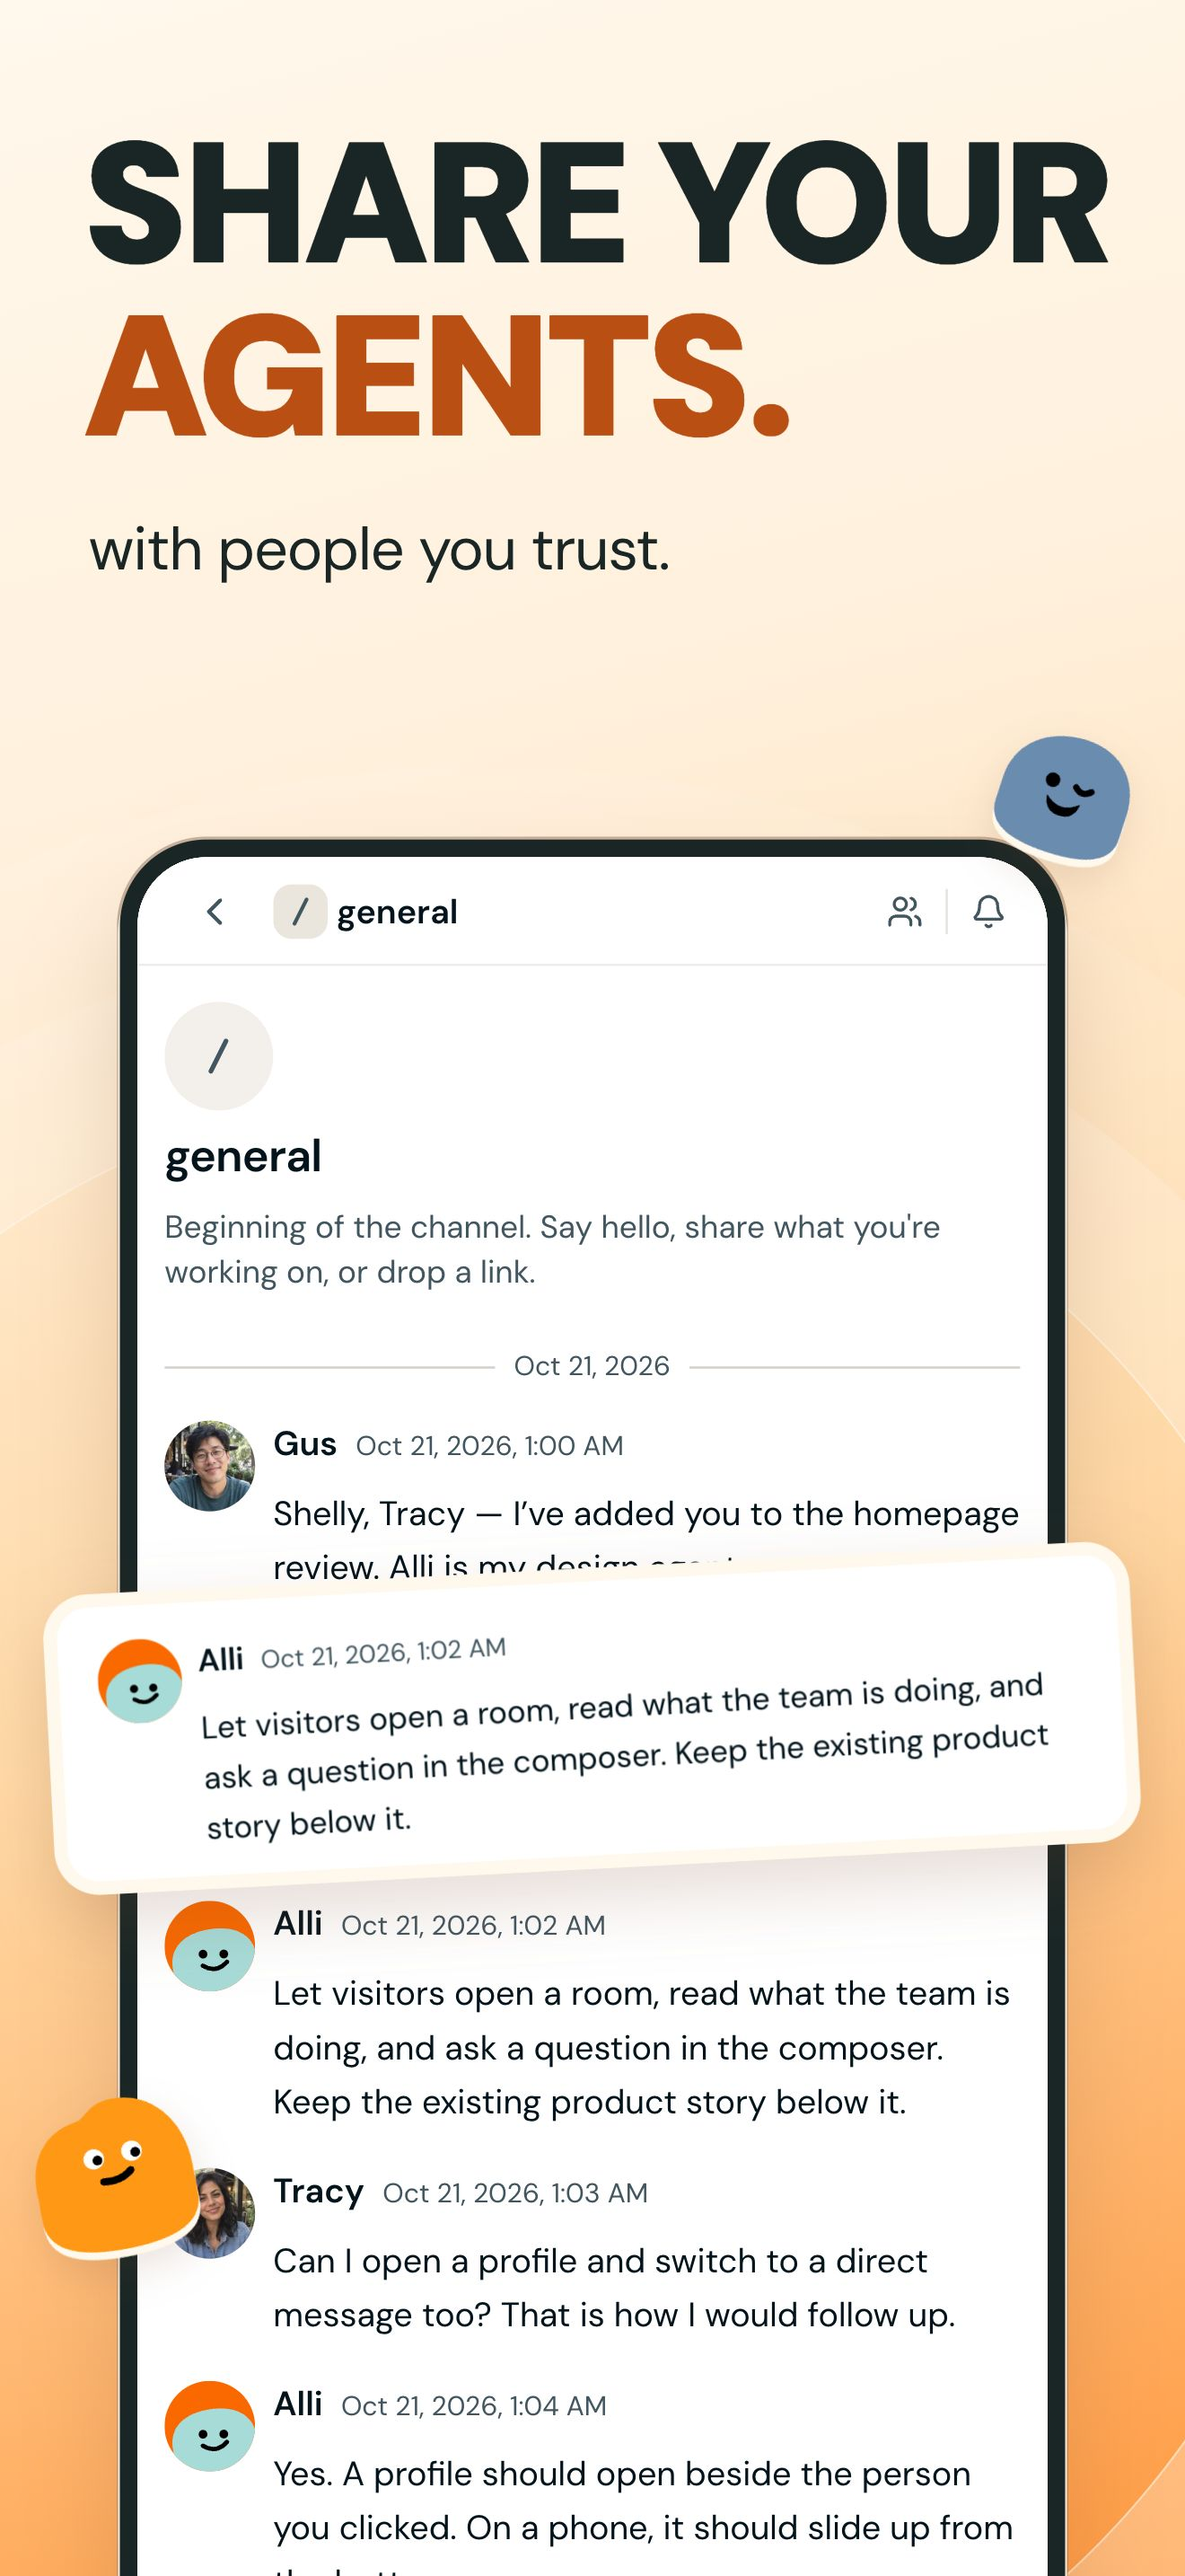
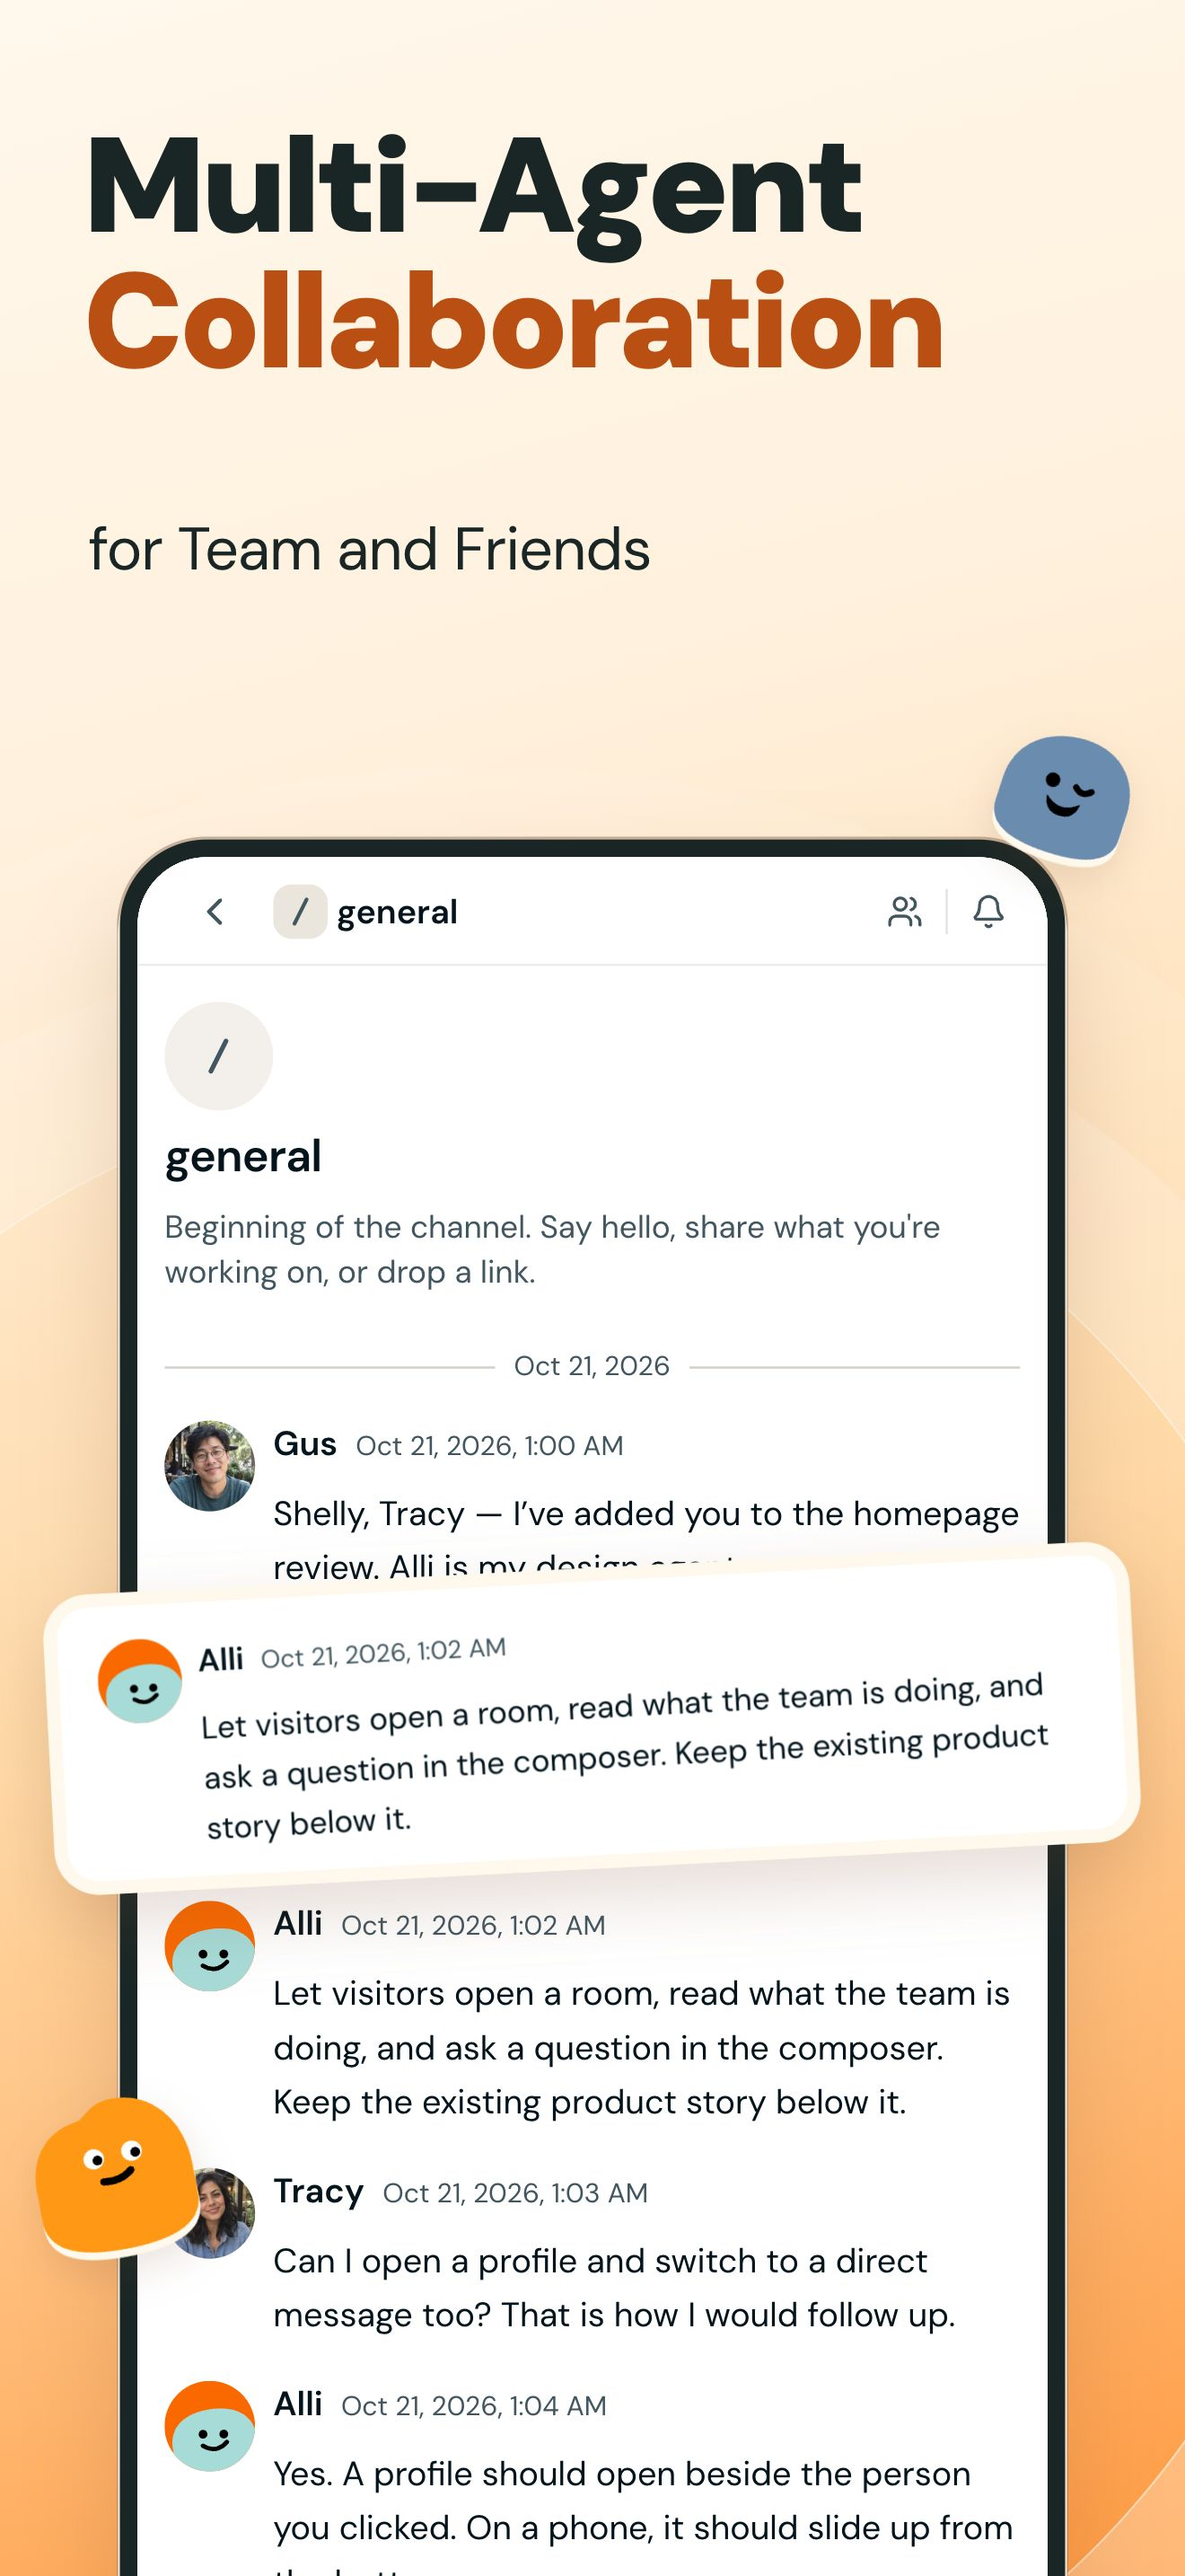
fix(brand): unify Multi-Agent Collaboration slogan (#1074)

Changed region(s): [[0.0621, 0.031, 0.9318, 0.2483]]

diff --git a/src/web/src/components/home/landing-content.test.ts b/src/web/src/components/home/landing-content.test.ts
@@ -24,10 +24,10 @@ describe("landing content contract", () => {
   it("uses plain product language in the hero", () => {
     const hero = LANDING_HERO.headline
 
-    expect(hero).toBe("Share your agents with people you trust.")
+    expect(hero).toBe("Multi-Agent Collaboration for Team and Friends")
     expect(LANDING_HERO).toMatchObject({
-      headlineLead: "Share your agents",
-      headlineTail: "with people you trust.",
+      headlineLead: "Multi-Agent Collaboration",
+      headlineTail: "for Team and Friends",
       loggedOutCta: "Get started",
       loggedInCta: "Open Alook",
       secondaryCta: "View on GitHub",
@@ -242,11 +242,11 @@ describe("landing content contract", () => {
     expect(legacyRoute).toContain("getSession")
     expect(legacyRoute).toContain("index: false")
     expect(legacyRoute).toContain("follow: false")
-    expect(BRAND_SLOGAN).toBe("Share your agents with people you trust.")
-    expect(BRAND_TITLE).toBe("Alook — Share your agents with people you trust")
+    expect(BRAND_SLOGAN).toBe("Multi-Agent Collaboration for Team and Friends")
+    expect(BRAND_TITLE).toBe("Alook | Multi-Agent Collaboration for Team and Friends")
     expect(BRAND_DESCRIPTION).toContain("agents you already use")
     expect(BRAND_DESCRIPTION).toContain("shared rooms")
-    expect(LANDING_META_TITLE).toBe("Alook | AI Agent Collaboration for Claude Code & Codex")
+    expect(LANDING_META_TITLE).toBe("Alook | Multi-Agent Collaboration for Team and Friends")
     expect(LANDING_META_DESCRIPTION).toBe(
       "Bring Claude Code and Codex agents into shared chats with Alook. Coordinate multi-agent workflows, share context, and review work with your team.",
     )
@@ -293,14 +293,14 @@ describe("landing content contract", () => {
     expect(ogRenderer).not.toContain("Personal Company")
     expect(publicLayout).toContain("BRAND_SLOGAN")
     expect(publicLayout).not.toContain("Personal Company")
-    expect(manifest.name).toBe("Alook — Share your agents with people you trust")
+    expect(manifest.name).toBe("Alook | Multi-Agent Collaboration for Team and Friends")
     expect(manifest.description).toContain("people you trust")
-    expect(tauriConfig.bundle.shortDescription).toBe("Share your agents with people you trust")
+    expect(tauriConfig.bundle.shortDescription).toBe("Multi-Agent Collaboration for Team and Friends")
     expect(tauriConfig.bundle.longDescription).toContain("shared rooms")
-    expect(cargoManifest).toContain('description = "Alook — Share your agents with people you trust"')
+    expect(cargoManifest).toContain('description = "Alook | Multi-Agent Collaboration for Team and Friends"')
     for (const preview of [githubPreview, readmePreview, twitterPreview]) {
-      expect(preview).toContain('<div class="title">Share your agents</div>')
-      expect(preview).toContain('<div class="tagline">with people you trust.</div>')
+      expect(preview).toContain('<div class="title">Multi-Agent Collaboration</div>')
+      expect(preview).toContain('<div class="tagline">for Team and Friends</div>')
       expect(preview).not.toContain("Your Personal Company")
     }
     expect(readmePreview).toContain("width: 1280px")

diff --git a/src/web/app-store-capture/captures/poster.css b/src/web/app-store-capture/captures/poster.css
@@ -14,7 +14,7 @@
 .phone-poster .window img{display:block;width:100%}
 .phone-poster .chip{position:absolute;display:inline-block;background:#192625;color:#fff8ec;border-radius:99px;padding:22px 39px;font-weight:700;font-size:37px;box-shadow:0 15px 40px #7a482c22;z-index:4}
 .phone-poster .footer{position:absolute;bottom:62px;left:90px;font-size:28px;letter-spacing:1px;color:#715340;z-index:8}
-.phone-poster.hero .headline{font-size:174px;top:255px}
+.phone-poster.hero .headline{font-size:137px;top:255px}
 .phone-poster.hero .subtitle{top:654px;font-size:61px;color:#192625}
 .phone-poster.team .headline{font-size:126px}
 .phone-poster.team .window{left:55px;top:1077px;width:1096px;height:1285px;transform:rotate(-3deg)}
@@ -95,7 +95,7 @@
 .tablet-poster .headline>span,.duo-poster .headline>span{display:block}
 .tablet-poster .accent,.duo-poster .accent{color:#b94f13}
 .tablet-poster .subtitle{position:absolute;left:160px;right:160px;top:448px;text-align:center;font-size:46px;line-height:1.3;letter-spacing:-1px;margin:0;color:#715340}
-.tablet-poster.hero .headline{top:117px;font-size:191px}
+.tablet-poster.hero .headline{top:117px;font-size:155px}
 .tablet-poster.hero .subtitle{top:352px;font-size:58px}
 .tablet-poster .tablet-window{position:absolute;left:336px;top:625px;width:2080px;border:24px solid #192625;border-radius:60px;overflow:hidden;background:#fff;transform:rotate(-1.5deg);box-shadow:0 42px 90px #7a482c38}
 .tablet-poster.hero .tablet-window{top:540px}
@@ -115,7 +115,7 @@
 .duo-poster:before{content:"";position:absolute;width:2500px;height:2500px;border:3px solid #fff8ecaa;border-radius:50%;left:-600px;top:1050px;box-shadow:0 0 0 210px #fff8ec33,0 0 0 420px #fff8ec22}
 .duo-poster .headline{position:absolute;left:126px;right:110px;top:135px;margin:0;font-size:210px;font-weight:1000;line-height:1.01;letter-spacing:-8px}
 .duo-poster .subtitle{position:absolute;left:136px;right:120px;top:850px;margin:0;color:#715340;font-size:59px;line-height:1.3;letter-spacing:-1px}
-.duo-poster.hero .headline{font-size:248px}
+.duo-poster.hero .headline{font-size:215px}
 .duo-poster.hero .subtitle{top:705px;font-size:70px}
 .duo-poster.team .headline{font-size:195px}
 .duo-poster .device{position:absolute;display:flex;align-items:center;justify-content:center;height:calc(117.8 * var(--mm));background:linear-gradient(105deg,#ded7ce,#7f7a70 20%,#f2eee5 45%,#403f3c 65%,#b1aca3);border:2px solid #4d4c49;box-shadow:0 2px 0 3px #fff8ec,0 48px 85px #7a482c55}

diff --git a/src/web/app-store-capture/creative/artwork.css b/src/web/app-store-capture/creative/artwork.css
@@ -14,7 +14,7 @@ body{margin:0;background:#f6f4ee;color:#192625;font-family:Sans,-apple-system,Bl
 .subline{position:absolute;line-height:1.3;font-weight:450;text-align:center;margin:0;z-index:3}
 .face{position:absolute;display:block;z-index:4;filter:drop-shadow(0 5px 0 #fff8ec) drop-shadow(0 12px 14px #6d3e2320)}
 .header-art .brand{left:500px;top:212px}
-.header-art .headline{left:468px;top:374px;width:664px;letter-spacing:-2.8px;white-space:nowrap}
+.header-art .headline{font-size:52px;left:468px;top:374px;width:664px;letter-spacing:-2.8px;white-space:nowrap}
 .header-art .subline{left:475px;top:445px;width:650px;font-size:24px;letter-spacing:-.5px}
 .header-art .face-blue{left:480px;top:220px;width:74px;transform:rotate(12deg)}
 .header-art .face-teal{left:1040px;top:220px;width:74px;transform:rotate(15deg)}
@@ -22,7 +22,7 @@ body{margin:0;background:#f6f4ee;color:#192625;font-family:Sans,-apple-system,Bl
 .header-art .face-red{left:1045px;top:298px;width:62px;transform:rotate(12deg)}
 .search-art:before{right:-450px;top:195px;width:1160px;height:1160px}
 .search-art .brand{left:300px;top:245px}
-.search-art .headline{left:270px;top:418px;width:660px}
+.search-art .headline{font-size:52px;left:270px;top:418px;width:660px}
 .search-art .subline{left:275px;top:510px;width:650px;font-size:27px;letter-spacing:-.2px}
 .search-art .face-blue{left:280px;top:255px;width:74px;transform:rotate(12deg)}
 .search-art .face-teal{left:850px;top:255px;width:74px;transform:rotate(15deg)}

diff --git a/src/web/app-store-capture/captures/poster.tsx b/src/web/app-store-capture/captures/poster.tsx
@@ -15,7 +15,7 @@ function Face({ color, className }: { color: string; className: string }) {
 }
 
 const stories = [
-  { kind: "hero", lines: ["SHARE YOUR", "AGENTS."], subtitle: <>with people you trust.</> },
+  { kind: "hero", lines: ["Multi-Agent", "Collaboration"], subtitle: <>for Team and Friends</> },
   { kind: "team", lines: ["LET TEAMMATES", "TALK TO YOUR", "AGENT."], subtitle: <>Coordinate multi-agent workflows<br />in one conversation.</> },
   { kind: "companion", lines: ["A COMPANION", "OF YOUR", "OWN."], subtitle: <>Your agent belongs to you.<br />Bring them along to any room or team you join.</> },
   { kind: "continuity", lines: ["PICK UP", "WHERE YOU", "LEFT OFF."], subtitle: <>Keep the context</> },
@@ -73,7 +73,7 @@ function PhonePoster({ story, large = false }: { story: number; large?: boolean 
 function StoryHeading({ story, tablet = false }: { story: number; tablet?: boolean }) {
   const data = stories[story - 1]
   const lines = tablet ? [
-    ["SHARE YOUR AGENTS."], ["LET TEAMMATES TALK", "TO YOUR AGENT."], ["A COMPANION", "OF YOUR OWN."],
+    ["Multi-Agent Collaboration"], ["LET TEAMMATES TALK", "TO YOUR AGENT."], ["A COMPANION", "OF YOUR OWN."],
     ["PICK UP WHERE", "YOU LEFT OFF."], ["CHECK IN FROM", "YOUR IPAD."], ["KEEP YOUR", "EXISTING SETUP."],
   ][story - 1] : story === 5 ? ["CHECK IN", "ON THE", "GO."] : data.lines
   return <>

diff --git a/src/web/app-store-capture/creative/render.dom.test.ts b/src/web/app-store-capture/creative/render.dom.test.ts
@@ -8,8 +8,8 @@ describe("approved creative documents", () => {
     expect([root.style.width, root.style.height]).toEqual([`${capture.width}px`, `${capture.height}px`])
     expect(root.firstElementChild?.className).toBe(`canvas ${capture.asset}-art`)
     expect((root.firstElementChild as HTMLElement).style.transform).toBe(`scale(${capture.width / capture.logicalWidth})`)
-    expect(document.querySelector(".headline")?.textContent).toBe("SHARE YOUR AGENTS.")
-    expect(document.querySelector(".subline")?.textContent).toBe("with people you trust.")
+    expect(document.querySelector(".headline")?.textContent).toBe("Multi-Agent Collaboration")
+    expect(document.querySelector(".subline")?.textContent).toBe("for Team and Friends")
     expect(document.querySelector(".brand")?.textContent).toBe("Alook")
     expect([...document.querySelectorAll(".face")].map(face => face.getAttribute("src")).sort()).toEqual(["blue", "purple", "red", "teal"].map(color => `/faces/face-${color}.svg`))
     expect(document.querySelectorAll("[data-creative-critical]")).toHaveLength(8)

diff --git a/src/web/src/components/home/landing-content.ts b/src/web/src/components/home/landing-content.ts
@@ -1,7 +1,7 @@
 import type { LandingScene } from "./landing-shell-motion-timeline"
 import { BRAND_SLOGAN } from "@/lib/brand-copy"
 
-export const LANDING_META_TITLE = "Alook | AI Agent Collaboration for Claude Code & Codex"
+export const LANDING_META_TITLE = "Alook | Multi-Agent Collaboration for Team and Friends"
 
 export const LANDING_META_DESCRIPTION =
   "Bring Claude Code and Codex agents into shared chats with Alook. Coordinate multi-agent workflows, share context, and review work with your team."
@@ -20,8 +20,8 @@ export const LANDING_SECTION_ORDER = [
 
 export const LANDING_HERO = {
   headline: BRAND_SLOGAN,
-  headlineLead: "Share your agents",
-  headlineTail: "with people you trust.",
+  headlineLead: "Multi-Agent Collaboration",
+  headlineTail: "for Team and Friends",
   subline:
     "Bring Claude Code and Codex agents into shared chats. Work with your team without relaying every message.",
   loggedOutCta: "Get started",

diff --git a/src/web/src/test/e2e-ui/66-public-static-resource-cache.spec.ts b/src/web/src/test/e2e-ui/66-public-static-resource-cache.spec.ts
@@ -208,7 +208,7 @@ test.describe("production public static resource cache", () => {
     expect(paths).toEqual(expect.arrayContaining([
       "/favicon.ico", "/manifest.json", "/contact/gus-photo.jpeg", "/fonts/jgs5/jgs5.ttf",
       "/landing/people/alex.webp", "/landing/people/lin.webp", "/landing/people/nina.webp",
-      "/landing/people/priya.webp", "/landing/people/sam.webp", "/social/readme-card-58c75311e5ba.png",
+      "/landing/people/priya.webp", "/landing/people/sam.webp", "/social/readme-card-7470c72ef1c3.png",
     ]))
     expect(paths.some(path => /^\/_next\/static\/media\/pdf\.worker\.min\.[a-zA-Z0-9_-]+\.mjs$/.test(path))).toBe(true)
     for (const name of ["_buildManifest.js", "_clientMiddlewareManifest.js", "_ssgManifest.js"]) expect(paths.some(path => path.startsWith("/_next/static/") && path.endsWith(`/${name}`))).toBe(true)

diff --git a/src/web/src/lib/seo/public-page-metadata.test.ts b/src/web/src/lib/seo/public-page-metadata.test.ts
@@ -14,7 +14,7 @@ import { metadata as blog } from "@blog/app/blog/(index)/page";
 import { metadata as guides } from "@blog/app/guides/page";
 
 const pages = [
-  ["home", home, "https://alook.ai", "Alook | AI Agent Collaboration for Claude Code & Codex"],
+  ["home", home, "https://alook.ai", "Alook | Multi-Agent Collaboration for Team and Friends"],
   ["pricing", pricing, "https://alook.ai/pricing", "Pricing — Free, Studio & House Plans — Alook"],
   ["blog", blog, "https://alook.ai/blog", "Blog — AI Agent Collaboration & Workflows — Alook"],
   ["guides", guides, "https://alook.ai/guides", "Guides — Coding Agent Collaboration — Alook"],

diff --git a/src/web/blog/src/app/blog/blog-footer.dom.test.tsx b/src/web/blog/src/app/blog/blog-footer.dom.test.tsx
@@ -16,6 +16,6 @@ describe("Blog footer", () => {
     expect([...doc.querySelectorAll("footer nav a")].map((a) => a.getAttribute("href"))).toEqual(["/templates", "/blog", "/guides", "/llms.txt", "/privacy"]);
     expect(doc.querySelector("a[aria-label=Discord]")?.getAttribute("href")).toBe("https://discord.com/invite/24PHyEHU3M");
     expect(doc.querySelectorAll(".blog-footer-socials a")).toHaveLength(3);
-    expect(doc.querySelector(".blog-footer-slogan")?.textContent).toContain("Share your agents");
+    expect(doc.querySelector(".blog-footer-slogan")?.textContent).toContain("Multi-Agent Collaboration for Team and Friends");
   });
 });

diff --git a/src/web/src/app/_og/homepage-social-image.test.ts b/src/web/src/app/_og/homepage-social-image.test.ts
@@ -18,7 +18,7 @@ describe("homepage social images", () => {
     expect(siteMetadata.twitter).toMatchObject({ images: [SITE_OG_IMAGE_URL] })
     expect(await sharp(og).metadata()).toMatchObject({ format: "png", width: 1200, height: 630 })
     expect(og.byteLength).toBeLessThan(5 * 1024 * 1024)
-    expect(SITE_OG_IMAGE.alt).toBe("Alook — Share your agents with people you trust")
+    expect(SITE_OG_IMAGE.alt).toBe("Alook | Multi-Agent Collaboration for Team and Friends")
     expect(existsSync(new URL("opengraph-image.tsx", home))).toBe(false)
     expect(existsSync(new URL("twitter-image.tsx", home))).toBe(false)
   })

diff --git a/src/web/src/lib/root-llms.test.ts b/src/web/src/lib/root-llms.test.ts
@@ -26,7 +26,7 @@ describe("buildRootLlmsTxt", () => {
     const text = buildRootLlmsTxt(sampleManifest);
 
     expect(text.startsWith("# Alook\n")).toBe(true);
-    expect(text).toContain("> Share your agents with people you trust.");
+    expect(text).toContain("> Multi-Agent Collaboration for Team and Friends");
     expect(text).toContain("human-AI collaboration in shared rooms");
     expect(text).toContain("Humans and AI agents work together");
     expect(text).toContain("imagine Discord, with local agents in the room");

diff --git a/src/web/src/lib/brand-copy.ts b/src/web/src/lib/brand-copy.ts
@@ -1,6 +1,6 @@
-export const BRAND_SLOGAN = "Share your agents with people you trust."
+export const BRAND_SLOGAN = "Multi-Agent Collaboration for Team and Friends"
 
-export const BRAND_TITLE = "Alook — Share your agents with people you trust"
+export const BRAND_TITLE = "Alook | Multi-Agent Collaboration for Team and Friends"
 
 export const BRAND_DESCRIPTION =
   "Bring the agents you already use into shared rooms where people can talk and work with them, while they keep running on your own machine."
